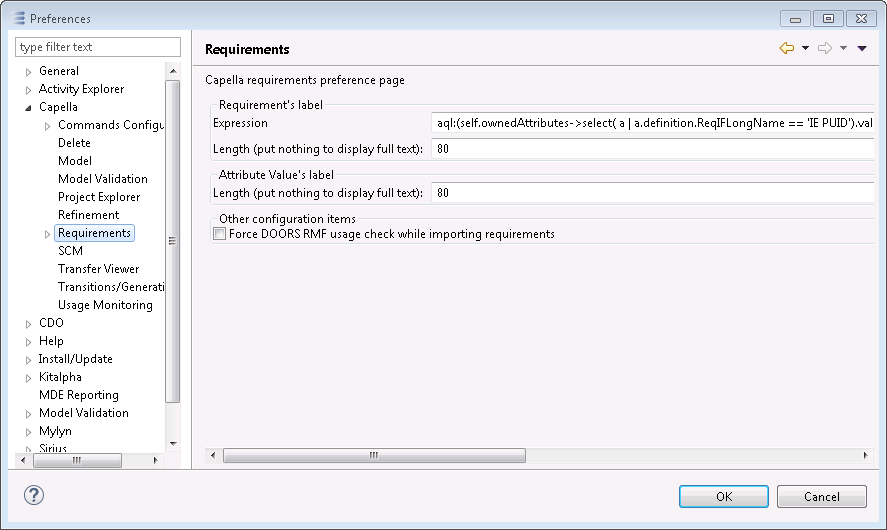
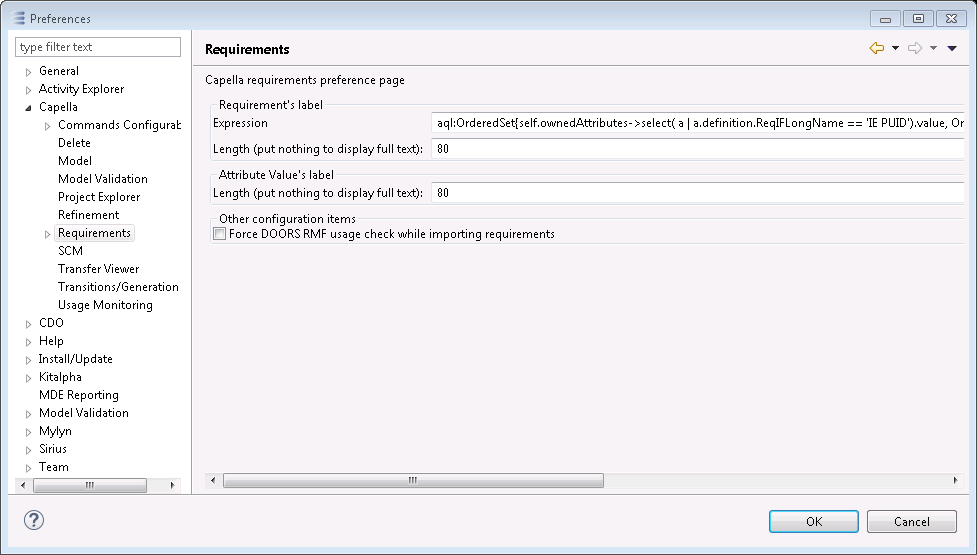
[1841] Update Requirement's label expression from Acceleo 2 to AQL
Bug: 1841

Changed region(s): [[0.0, 0.0302, 1.0, 0.966], [0.8828, 0.0, 1.0, 0.1208], [0.1826, 0.8151, 0.2131, 0.8453]]

diff --git a/plugins/org.polarsys.capella.vp.requirements.importer.preferences/src/org/polarsys/capella/vp/requirements/importer/preferences/RequirementsPreferencesConstants.java b/plugins/org.polarsys.capella.vp.requirements.importer.preferences/src/org/polarsys/capella/vp/requirements/importer/preferences/RequirementsPreferencesConstants.java
@@ -17,7 +17,7 @@ public class RequirementsPreferencesConstants {
 
   public static final String REQUIREMENT_LABEL_EXPRESSION = "requirement.label.expression";
   
-  public static final String REQUIREMENT_DEFAULT_LABEL_EXPRESSION = "aql:(self.ownedAttributes->select( a | a.definition.ReqIFLongName == 'IE PUID').value + OrderedSet{self.ReqIFText, self.ReqIFLongName, self.ReqIFChapterName}->select(s | s != 'null' and s.length > 0)->first())->sep(' ')";
+  public static final String REQUIREMENT_DEFAULT_LABEL_EXPRESSION = "aql:OrderedSet{self.ownedAttributes->select( a | a.definition.ReqIFLongName == 'IE PUID').value, OrderedSet{self.ReqIFText, self.ReqIFLongName, self.ReqIFChapterName}->select(s | s != 'null' and s.size() > 0)->add('')->first()}->sep(' ')";
 
   public static final String REQUIREMENT_PROPERTIES_FILES = "requirement.properties.files";
   
